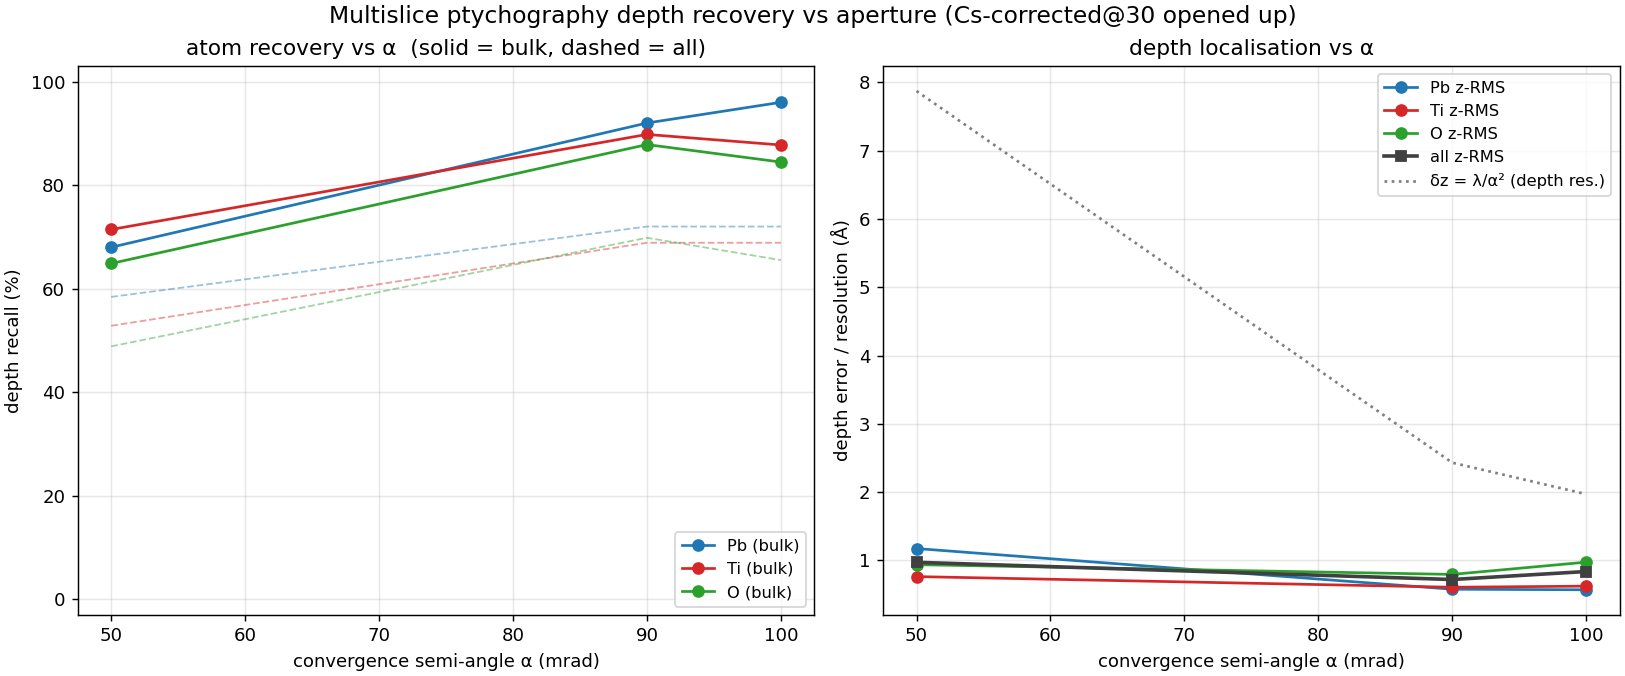
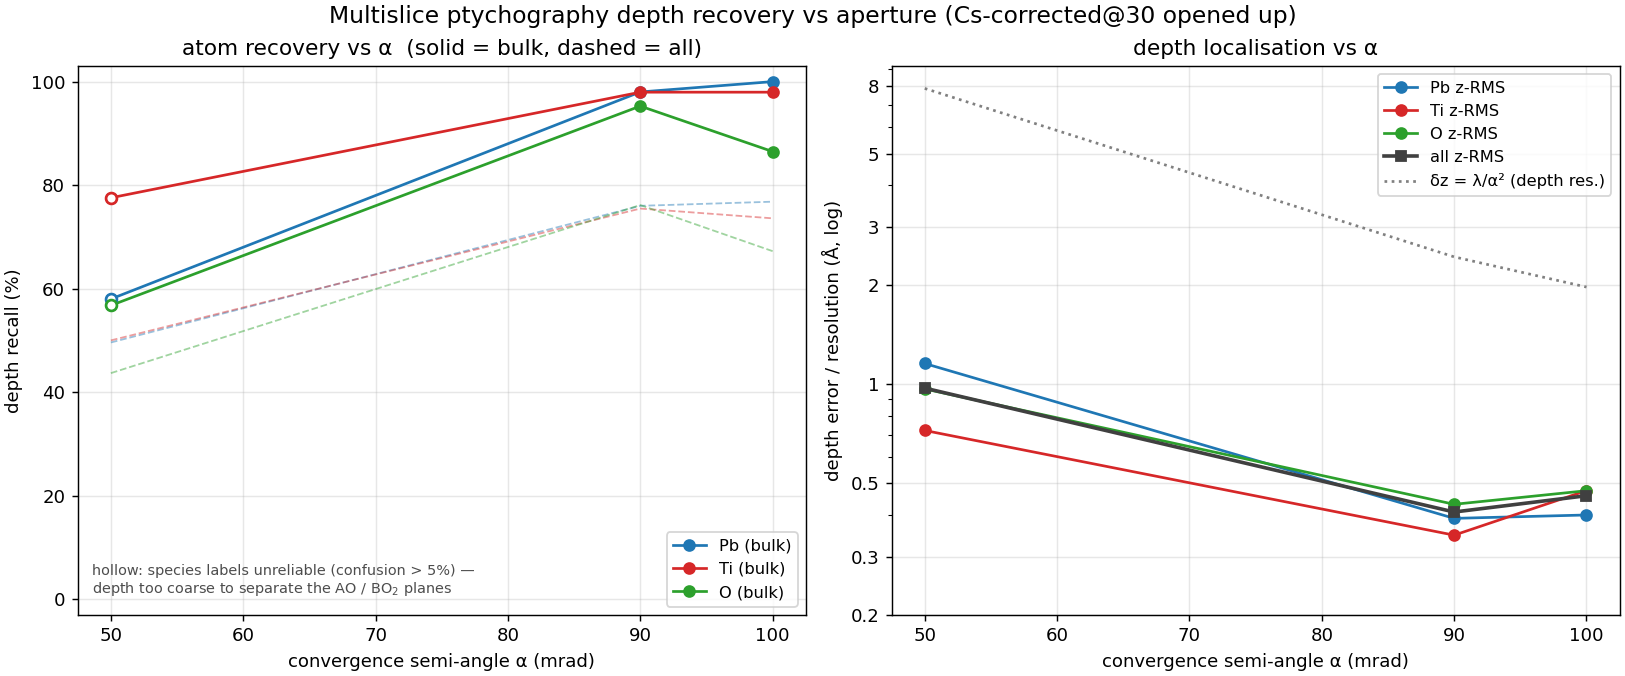
[atomfind] matched S1 kernels: depth error halves with alpha; data-derived flag lifted
With byte-identical kernels (S1 grid, averaging extractor) on the same lab recons:
  a90   bulk Pb/Ti/O 92/90/88% -> 98/98/95%,  z-RMS 0.72 -> 0.41 A, confusion 0.5%
  a100  bulk Pb/Ti/O 96/88/84% -> 100/98/86%, z-RMS 0.84 -> 0.46 A, confusion 2.9%
  a50   0.97 A z-RMS; species confusion 10.9% (> the 5% health threshold)

CORRECTS the 2026-09-10 handover, which said z-RMS was flat across alpha and the
alpha dependence showed only in recall. That was an artefact of the data-derived
stand-in PSF: with matched kernels the depth error halves from a50 to a90/a100.

Figure: log depth axis (the 2-8 A diffraction limit squashed the 0.4-1 A fitted
error flat against zero), and species-resolved points drawn hollow where species
confusion exceeds 5%. At a50 the 3.93 A slices merge the AO/BO2 planes, so its
Ti>Pb split is label swapping, not physics. The collator now records confusion.

Driver: GRIDSP default 4 -> 3, so the defaults ARE the validated S1 settings and
a new alpha (a110) gets kernels on the same grid as the rest of the sweep.

diff --git a/analysis/collate_atomfind_depth.py b/analysis/collate_atomfind_depth.py
@@ -21,6 +21,7 @@ import argparse, csv, datetime, glob, json, os, re
 LAMBDA_A = 0.0196877          # 300 keV electron wavelength [Å]
 SPECIES = ("Pb", "Ti", "O")   # A-site / B-site cation / oxygen
 SP_COLOR = {"Pb": "#1f77b4", "Ti": "#d62728", "O": "#2ca02c"}
+CONF_MAX = 0.05               # atomfind's own health threshold on species confusion
 
 
 def week_dir(sub):
@@ -46,10 +47,14 @@ def load_run(d):
     with open(p) as f:
         r = json.load(f)
     frep = r.get("finder", {}).get("v3", {})
+    cf = frep.get("confusion") or {}
+    off = sum(cf.get(f"{a}->{b}", 0) for a in (82, 22, 8) for b in (82, 22, 8) if a != b)
+    diag = sum(cf.get(f"{a}->{a}", 0) for a in (82, 22, 8))
     row = dict(alpha=find_alpha(r, p), dz=r.get("dz"),
                precision=frep.get("precision"),
                xy_rms=frep.get("xy_rms_A"), z_rms=frep.get("z_rms_A"),
-               n_found=frep.get("n_found"))
+               n_found=frep.get("n_found"),
+               confusion=off / (off + diag) if off + diag else None)
     for k in SPECIES:
         sp = frep.get(k, {})
         row[f"{k}_recall"] = sp.get("recall")
@@ -61,7 +66,7 @@ def load_run(d):
 
 
 def write_csv(rows, path):
-    cols = ["alpha", "dz", "precision", "xy_rms", "z_rms", "n_found"]
+    cols = ["alpha", "dz", "precision", "xy_rms", "z_rms", "n_found", "confusion"]
     cols += [f"{k}_{m}" for k in SPECIES for m in ("recall", "recall_bulk", "zrms")]
     with open(path, "w", newline="") as f:
         w = csv.DictWriter(f, fieldnames=cols)
@@ -83,18 +88,31 @@ def make_fig(rows, path):
     import matplotlib
     matplotlib.use("Agg")
     import matplotlib.pyplot as plt
+    import matplotlib.ticker
 
     fig, (axR, axZ) = plt.subplots(1, 2, figsize=(12.5, 5.2), constrained_layout=True)
     alphas = [r["alpha"] for r in rows]
 
     # --- recall vs alpha (bulk = interior planes, the honest metric; total dashed) ----
+    # A per-species split is only meaningful when the species labels are: atomfind flags species
+    # confusion above 5% as unreliable, and at coarse depth sampling the AO/BO2 planes (1.95 A
+    # apart) merge so labels swap. Those points are drawn hollow rather than dropped.
+    bad = {r["alpha"] for r in rows if r.get("confusion") is not None and r["confusion"] > CONF_MAX}
     for k in SPECIES:
         x, y = _xy(rows, "alpha", f"{k}_recall_bulk")
         if x:
-            axR.plot(x, [v * 100 for v in y], "-o", color=SP_COLOR[k], label=f"{k} (bulk)")
+            yy = [v * 100 for v in y]
+            axR.plot(x, yy, "-o", color=SP_COLOR[k], label=f"{k} (bulk)")
+            for xi, yi in zip(x, yy):
+                if xi in bad:
+                    axR.plot(xi, yi, "o", color=SP_COLOR[k], mfc="white", mew=1.5, zorder=3)
         xt, yt = _xy(rows, "alpha", f"{k}_recall")
         if xt:
             axR.plot(xt, [v * 100 for v in yt], "--", color=SP_COLOR[k], alpha=0.45, lw=1)
+    if bad:
+        axR.text(0.02, 0.03, f"hollow: species labels unreliable (confusion > {CONF_MAX:.0%}) —\n"
+                 "depth too coarse to separate the AO / BO$_2$ planes",
+                 transform=axR.transAxes, fontsize=8, va="bottom", color="0.3")
     axR.set_xlabel("convergence semi-angle α (mrad)")
     axR.set_ylabel("depth recall (%)")
     axR.set_ylim(-3, 103)
@@ -114,8 +132,13 @@ def make_fig(rows, path):
         aa = sorted(alphas)
         dz_res = [LAMBDA_A / (a * 1e-3) ** 2 for a in aa]
         axZ.plot(aa, dz_res, ":", color="0.5", label="δz = λ/α² (depth res.)")
+    # log axis: the diffraction limit runs 2-8 A, the fitted depth error 0.4-1 A; linear squashes
+    # the localisation curve flat against zero
+    axZ.set_yscale("log")
+    axZ.set_yticks([0.2, 0.3, 0.5, 1, 2, 3, 5, 8])
+    axZ.get_yaxis().set_major_formatter(matplotlib.ticker.FormatStrFormatter("%g"))
     axZ.set_xlabel("convergence semi-angle α (mrad)")
-    axZ.set_ylabel("depth error / resolution (Å)")
+    axZ.set_ylabel("depth error / resolution (Å, log)")
     axZ.set_title("depth localisation vs α")
     axZ.grid(alpha=0.3)
     axZ.legend(loc="upper right", fontsize=9)

diff --git a/aberration_experiment/HANDOVER.md b/aberration_experiment/HANDOVER.md
@@ -1,4 +1,4 @@
-# Aberration experiment — handover (2026-W37, updated 2026-09-10)
+# Aberration experiment — handover (2026-W37, updated 2026-09-11)
 
 Continuation notes; pairs with the `aberration-campaign` auto-memory. Overview in `README.md`.
 PSF kernel rules live in `PSF_KERNELS.md` — read that before touching the grid legs.
@@ -35,7 +35,7 @@ C1(defocus) — the `campaign/round_sweep.tsv` balance — to keep the probe com
   deliverable. Next goal after atomfind: blind from a BEST-GUESS probe (needs a vacuum/edge region
   in the scan, or a thicker sample — not a solver flag).
 
-## 2026-09-10: four bugs found and fixed (all pushed)
+## 2026-09-10/11: bugs found and fixed (all pushed)
 
 1. **`probe_initial_true.mat` never written** (`92d1b4b`). `run_thin_atomfind.sh` passed
    `PROBE_INITIAL=true`, but the sim writes `probe_initial_true.mat` only for a *nominal* initial
@@ -61,6 +61,17 @@ C1(defocus) — the `campaign/round_sweep.tsv` balance — to keep the probe com
 4. **Halo included in the analysis** (`fea29ea`). The finder ran over the whole 37–55 Å object though
    only the ~20 Å scan is data-constrained. `cfg.fov_A` (thin preset: 20.0) crops to the scan field
    and shifts X0/Y0. Precision a50 0.25→0.75, a90 0.11→0.73, a100 0.11→0.77, recall held.
+5. **One-blob kernel extractor** (`014d4bf`). Even from the clean S1 grids it mis-picked 3/8 kernels:
+   it searched the whole object (junk scan edge), took one blob, never removed the phase-ramp
+   gauge. Now it deramps, locates the interior grid atoms, and AVERAGES 25 of them. See
+   `PSF_KERNELS.md` § Extraction. `--zdrop` is required now (old default 12 erased NL=7 volumes).
+6. **Relative `SIM_BASE` in a hand-written sbatch** (`014d4bf`). MATLAB starts in `ptycho/` (`-sd`),
+   so a relative SIM_BASE resolved there, and job 1272524 (a70 lab re-run) died in 2 min with its
+   reason in the unpacked `.err`. The wrapper now anchors relative paths to the submit dir and
+   **preflights** sim_meta / data_dp / data_position / probe_initial (`-e` follows links), failing to
+   stdout before MATLAB. This also stops the endless "File corrupt ... Retrying" loop of bug 1 from
+   ever burning walltime again. **Prefer the driver** (`run_thin_atomfind.sh`, which always passes
+   absolute paths) over hand-written sbatch lines.
 
 ## PSF kernels — the rule (`PSF_KERNELS.md`, `35c6acb`)
 A kernel is the matched system PSF only if the grid leg and the lab leg agree on **everything except
@@ -77,47 +88,57 @@ atomic plane, little total scattering, 23–28 depth layers, and a 14 Å scan wi
 use 20 Å. Ladder: S1 scan identity + density → S2 denser → S3 sparse multi-plane (α≥90 only,
 spacing ≳4·δz). Thinning the box is rejected: it changes NL.
 
-## Results so far — PROVISIONAL
-Bulk recall (interior band, the honest metric), after fixes 2–4, `~/Desktop/thin_ab_af/out/atomfind_a*`:
+**S1 worked** (`WIN=20, GRIDSP=3`, all four α, `atomfind_results_20260910_2109`): with the averaging
+extractor, all 8 kernels average 25 atoms, argmax at the crop centre, peak/bg 44–1694. S2/S3 not
+needed. Kernels live at `~/Desktop/thin_ab_af2/psf/psf_{Pb,Ti}_a<A>_vol.npy`.
 
-| α | dz (Å) | prec | Pb | Ti | O | z-RMS | kernel |
+## Results — matched byte-identical kernels (2026-09-11)
+Bulk recall (interior band, the honest metric), all fixes in, S1 kernels,
+`~/Desktop/thin_ab_af2/out/atomfind_a*`:
+
+| α | dz (Å) | prec | Pb | Ti | O | z-RMS | species confusion |
 |---|---|---|---|---|---|---|---|
-| 50 | 3.93 | 0.75 | 68% | 71% | 65% | 0.97 Å | matched grid |
-| 70 | 1.97 | 0.58 | — | — | — | — | recon degenerate, see below |
-| 90 | 1.20 | 0.73 | 92% | 90% | 88% | 0.72 Å | **data-derived** |
-| 100 | 0.98 | 0.77 | **96%** | 88% | 84% | 0.84 Å | **data-derived** |
+| 50 | 3.93 | 0.75 | 58% | 78% | 57% | 0.97 Å | 10.9% ⚠ unreliable |
+| 70 | 1.97 | — | — | — | — | — | lab recon pending (see In flight) |
+| 90 | 1.20 | 0.76 | **98%** | **98%** | **95%** | **0.41 Å** | 0.5% |
+| 100 | 0.98 | 0.79 | **100%** | **98%** | 86% | **0.46 Å** | 2.9% |
 
-Figure: `figs/2026-W37/atomfind_depth_vs_alpha.png`; CSV in `results/2026-W37/`; collator
-`analysis/collate_atomfind_depth.py <run dirs>` (reads each run's `report.json`).
+Figure: `figs/2026-W37/atomfind_depth_vs_alpha.png` (log depth axis; hollow markers = species
+labels unreliable); CSV in `results/2026-W37/`; collator `analysis/collate_atomfind_depth.py`.
 
-**Caveats to carry forward.** (a) a90/a100 used the DATA-DERIVED PSF because the grid kernels were
-junk — label them as such until S1 lands. (b) a70's lab recon is degenerate (`|obj|` collapses to
-8e-4 in patches → inf/NaN in the v1-spike baseline; it crashes there *after* the v3 finder succeeds),
-so a70 is excluded from the figure. (c) Measured z-RMS is 0.6–1.0 Å across the sweep, well BELOW
-δz = λ/α² (7.9→2.0 Å): fitting atom centres beats the resolution limit, so the α dependence shows up
-in **recall**, not in localisation error. Frame the result that way.
+**How to frame it.**
+- **Depth error falls with α**: z-RMS 0.97 → 0.41–0.46 Å, always well below δz = λ/α² (7.9 → 2.0 Å)
+  because atomfind fits atom centres. ⚠ CORRECTION: the 2026-09-10 version of this file said z-RMS
+  was flat (0.6–1.0 Å) and the α dependence showed only in recall. That was an artefact of the
+  data-derived stand-in PSF; with matched kernels the depth error halves. Don't reuse the old framing.
+- **Matched kernels are worth ~2× in depth error** at a90/a100 (0.72→0.41, 0.84→0.46 Å vs the
+  data-derived PSF) — the byte-identity rule is not pedantry.
+- **a50: atoms are found in-plane** (precision 0.75, xy-RMS 0.15 Å) **but species are not
+  resolvable in depth**: at 3.93 Å slices the AO/BO₂ planes (1.95 Å apart) merge, so labels swap
+  (confusion 10.9% > atomfind's 5% health threshold). Its per-species split (Ti > Pb) is label
+  swapping, not physics. This is the expected "mediocre at low α" end.
+- **a100 slightly behind a90** on O recall (86 vs 95%) and z-RMS (0.46 vs 0.41 Å), as the probe grows
+  (d90 6.6 → 11 Å). Possibly the start of the break — ONE point, don't claim it; a110/a120 test it.
 
-## IN FLIGHT (submitted 2026-09-10 ~21:09)
-- **1272524** — a70 lab recon re-run damped (`BETA_LSQ=0.05`), fixes caveat (b).
-- **1272533–1272548** — S1 kernel rebuild: 8 grid sims + 8 recons,
-  `ALPHAS="50 70 90 100" MODES="Pb Ti" GRIDSP=3 WIN=20 OVERWRITE=1 BETA_LSQ=0.05`.
-  All four α rebuilt so the sweep is internally uniform.
-- **1272549** — pack → `$SHARE/atomfind_results_20260910_2109.tgz`. NOTE: it depends only on the
-  kernel jobs, so if 1272524 hasn't finished the a70 lab h5 won't be in the tarball — check, and
-  re-run `campaign/pack_results.sh af <out.tgz> campaign/round_sweep.tsv` if needed.
-- Cancelled 1272511 (old-geometry a100_Ti) — it collided with S1's `recon_af_a100_Ti_NL28`.
+## IN FLIGHT / TO RUN
+- **a70 lab recon** — the only missing point. Degenerate original (`|obj|` collapses to 8e-4 in
+  patches → inf/NaN in the v1-spike baseline); the damped re-run 1272524 died on bug 6. Re-run via
+  the driver (absolute paths, reuses the existing sim):
+  `ALPHAS=70 MODES=lab RECON_ONLY=1 BETA_LSQ=0.05 bash campaign/run_thin_atomfind.sh`
+  then pull just its h5 (`recon_af_a70_lab_NL14/analysis/S00000-00999/S00001/*_recons.h5`).
+  The a70 S1 kernels are already extracted and clean.
 
 ## Next steps
-1. scp the tarball to `~/Desktop/thin_ab_af/` (fresh dir), `tar xzf` separately.
-2. Check every leg produced `analysis/*_recons.h5`; a COMPLETED slurm job with no h5 = MATLAB
-   crashed internally (grep the `slurm_*.out` for `contains NaNs`).
-3. Re-extract all kernels: `extract_psf.py recon_af_a<A>_<El>_NL<NL> <El>_a<A> --out psf --zdrop R`
-   with **`R = round(4.0/dz)` = 1/2/3/4** at a50/70/90/100 (the default 12 erases a NL=7 volume).
-   Judge them by `PSF_KERNELS.md` § "How to tell a kernel is good".
-4. If S1 kernels are clean → re-run all four α with matched `--single-atom-vol` + `--ti-kernel-vol`;
-   if still speckled → S2 (`GRIDSP=2.5`), then S3 (multi-plane, α≥90).
-5. Rebuild the depth-vs-α figure with a70 restored and matched kernels; drop the data-derived flag.
-6. Then: non-round aberrations (`nonround_sweep.tsv`, 70 mrad + C56), then a C5-corrected comparison
+1. a70: pull the lab h5 → `run_atomfind.py --preset thin --recon <h5> --dz 1.966 --data-dir
+   ~/Desktop/thin_ab_af/gtdata --single-atom-vol .../psf_Pb_a70_vol.npy --ti-kernel-vol
+   .../psf_Ti_a70_vol.npy --out ~/Desktop/thin_ab_af2/out/atomfind_a70`, then re-collate all four.
+2. **a110** (BIN=1, NL=34; heavy — 175G, GROUPING=16, 24 h): tests the break the a100 dip hints at.
+   `ALPHAS=110 bash campaign/run_thin_atomfind.sh` (lab + kernels in one go; the driver now defaults
+   to the validated S1 grid, `WIN=20 GRIDSP=3`). **a120 is probably not simulable**: the planner put
+   its probe at d90 ≈ 47 Å, and the campaign memory records it exceeding even the 70 Å BIN=1 box.
+   Only try it after checking the sim's `[geom]` halo margins on a110.
+3. MEP phase-volume figure for the report (x–z + in-plane per α, from the lab h5s).
+4. Then: non-round aberrations (`nonround_sweep.tsv`, 70 mrad + C56), then a C5-corrected comparison
    ("Grand ARM 3") — and the blind-from-a-guess probe goal.
 
 ## Key facts

diff --git a/aberration_experiment/PSF_KERNELS.md b/aberration_experiment/PSF_KERNELS.md
@@ -35,8 +35,10 @@ Per α:
 
 `campaign/run_thin_atomfind.sh` runs, per α, a **Pb** and a **Ti** grid leg: `build_atom_grid()`
 puts one element on a 2-D grid at a **single depth plane**, through the same aberrated probe and
-box as the lab recon. `analysis/atomfind/extract_psf.py` crops one clean interior blob →
+box as the lab recon. `analysis/atomfind/extract_psf.py` removes the phase-ramp gauge, finds
+the grid atoms in the interior of the scan field and **averages** them →
 `psf_<el>_a<α>_vol.npy`, loaded by atomfind via `--single-atom-vol` / `--ti-kernel-vol`.
+(Before 2026-09-11 it cropped one blob; `--single` still does, for reproducing old kernels.)
 
 ## What went wrong
 
@@ -111,31 +113,72 @@ Ordered by how little they disturb byte-identity.
 **Not recommended:** thinning the PSF box (`--grid-box-z`) to cut the layer count. It changes `NL`,
 which is one of the things that must match, so it buys conditioning at the cost of the rule.
 
+## Extraction: the second half of the fix
+
+S1 made the reconstructions clean — every grid is a 7×7 array of isolated atoms and every axial
+profile peaks on the true atom depth (13.3–14.7 Å vs 13.76 Å) with flat vacuum bands. But the
+original one-blob extractor still mis-picked three of eight kernels (Ti_a50 off the crop centre
+with a spurious conjugation; both a70 at the exit edge), because it searched the whole object
+including the junk scan edge, took a single blob, and never removed the phase-ramp gauge (0.6 rad
+across the field at a50). A clean recon is necessary but not sufficient.
+
+The extractor now:
+
+1. **removes the ramp** with the `analyze_thin_campaign` model — one plane fitted to the
+   depth-summed phase, spread evenly over the layers — masking atom pixels out of the fit;
+2. **locates** the grid atoms in the inner 13 Å (clear of the scan edge) on a *background-removed*
+   band, because a plane leaves a bowl in weak kernels that hid 22 of Ti_a50's 25 atoms;
+3. **averages** them, with the kernel *values* taken from the deplaned phase, not the
+   background-removed band — high-passing the kernel would reshape it, the same class of
+   distortion as REGLAYER. Averaging N measurements of one response does not change the operator,
+   so byte-identity holds; it is what the grid is for.
+
 ## How to tell a kernel is good
 
 `extract_psf.py` prints what you need:
 
-- `|phase|>0.5` fraction of a few % at most;
-- argmax at the **centre** of the crop in z (the grid atom sits at box centre), not at a z edge;
+- number of atoms averaged (25 for `GRIDSP=3`, `WIN=20`) and the fraction that peak in the same
+  layer — the grid is one plane, so they should agree;
+- argmax at the **crop centre** (y = x = `--half-xy`), and in z on the atom plane, not a z edge;
+- peak/background of tens at least; `|phase|>0.5` fraction a few % at most;
 - in-plane FWHM sub-Å; axial FWHM comparable to δz = λ/α² for that α;
-- **`--zdrop` must be the vacuum band in LAYERS**, `round(4.0/dz)` → 1/2/3/4 at a50/70/90/100. The
-  default of 12 silently erases a NL=7 volume (`z0=12, z1=-5`) and reports "no blobs found".
+- **`--zdrop` must be the vacuum band in LAYERS**, `round(4.0/dz)` → 1/2/3/4 at a50/70/90/100. It is
+  now required: the old default of 12 silently erased a NL=7 volume and reported "no blobs found".
 
 ## Running it
 
 ```bash
-# rebuild ONLY the PSF kernels (lab legs untouched), S1 settings
-ALPHAS="90 100" MODES="Pb Ti" GRIDSP=3 WIN=20 OVERWRITE=1 BETA_LSQ=0.05 \
+# rebuild ONLY the PSF kernels (lab legs untouched), S1 settings, all four alphas for uniformity
+ALPHAS="50 70 90 100" MODES="Pb Ti" GRIDSP=3 WIN=20 OVERWRITE=1 BETA_LSQ=0.05 \
   bash campaign/run_thin_atomfind.sh
+# then per alpha and element (R = round(4/dz))
+python analysis/atomfind/extract_psf.py recon_af_a<A>_<El>_NL<NL> <El>_a<A> --zdrop R --out psf
 ```
 
-## Current status — FLAG
+## Current status (2026-09-11) — S1 kernels are good, no fallback needed
 
-- **a50, a70**: matched grid kernels used (a70's Ti marginal at 10.4%).
-- **a90, a100**: grid kernels unusable, so the reported numbers use the **data-derived PSF**
-  (`psf.data_psf()` — real Pb columns averaged from the same lab recon). Matched by construction
-  and performing well, but measured from the stacked labyrinth, so its axial tail carries
-  neighbouring-column contributions a true isolated-atom kernel would not. **Any a90/a100
-  kernel-dependent number stays labelled data-derived until S1/S2/S3 lands.**
-- **a70 lab recon is separately degenerate** (`|obj|` collapses to 8e-4 in patches → inf/NaN in the
-  spike baseline); re-running damped at `BETA_LSQ=0.05`.
+`atomfind_results_20260910_2109`, all eight kernels:
+
+| kernel | atoms | argmax (y,x) | peak/bg | same-layer | in-plane FWHM |
+|---|---|---|---|---|---|
+| Pb_a50 | 25 | (30,30) | 178 | 100% | 0.15 Å |
+| Ti_a50 | 25 | (30,30) | 44 | 92% | 0.25 Å |
+| Pb_a70 | 25 | (30,30) | 379 | 100% | 0.10 Å |
+| Ti_a70 | 25 | (30,30) | 61 | 100% | 0.20 Å |
+| Pb_a90 | 25 | (30,30) | 1694 | 100% | 0.15 Å |
+| Ti_a90 | 25 | (30,30) | 513 | 100% | 0.10 Å |
+| Pb_a100 | 25 | (30,30) | 270 | 76%* | 0.15 Å |
+| Ti_a100 | 25 | (30,30) | 70 | 100% | 0.15 Å |
+
+\* The a100 grid atom sits at z = 13.762 Å and 14 × 0.983 = 13.76 Å — exactly on a layer boundary,
+so its peak splits between two layers. Physical, not a fault.
+
+The **data-derived flag is lifted**: every kernel now comes out of the byte-identical pipeline.
+Matched kernels vs the data-derived stand-in on the same lab recons:
+
+| α | bulk recall Pb / Ti / O | z-RMS | species confusion |
+|---|---|---|---|
+| 90 | 92/90/88% → **98/98/95%** | 0.72 → **0.41 Å** | → 0.5% |
+| 100 | 96/88/84% → **100/98/86%** | 0.84 → **0.46 Å** | → 2.9% |
+
+The kernel is worth a factor of ~2 in depth error. S2 and the multi-plane fallback were not needed.
